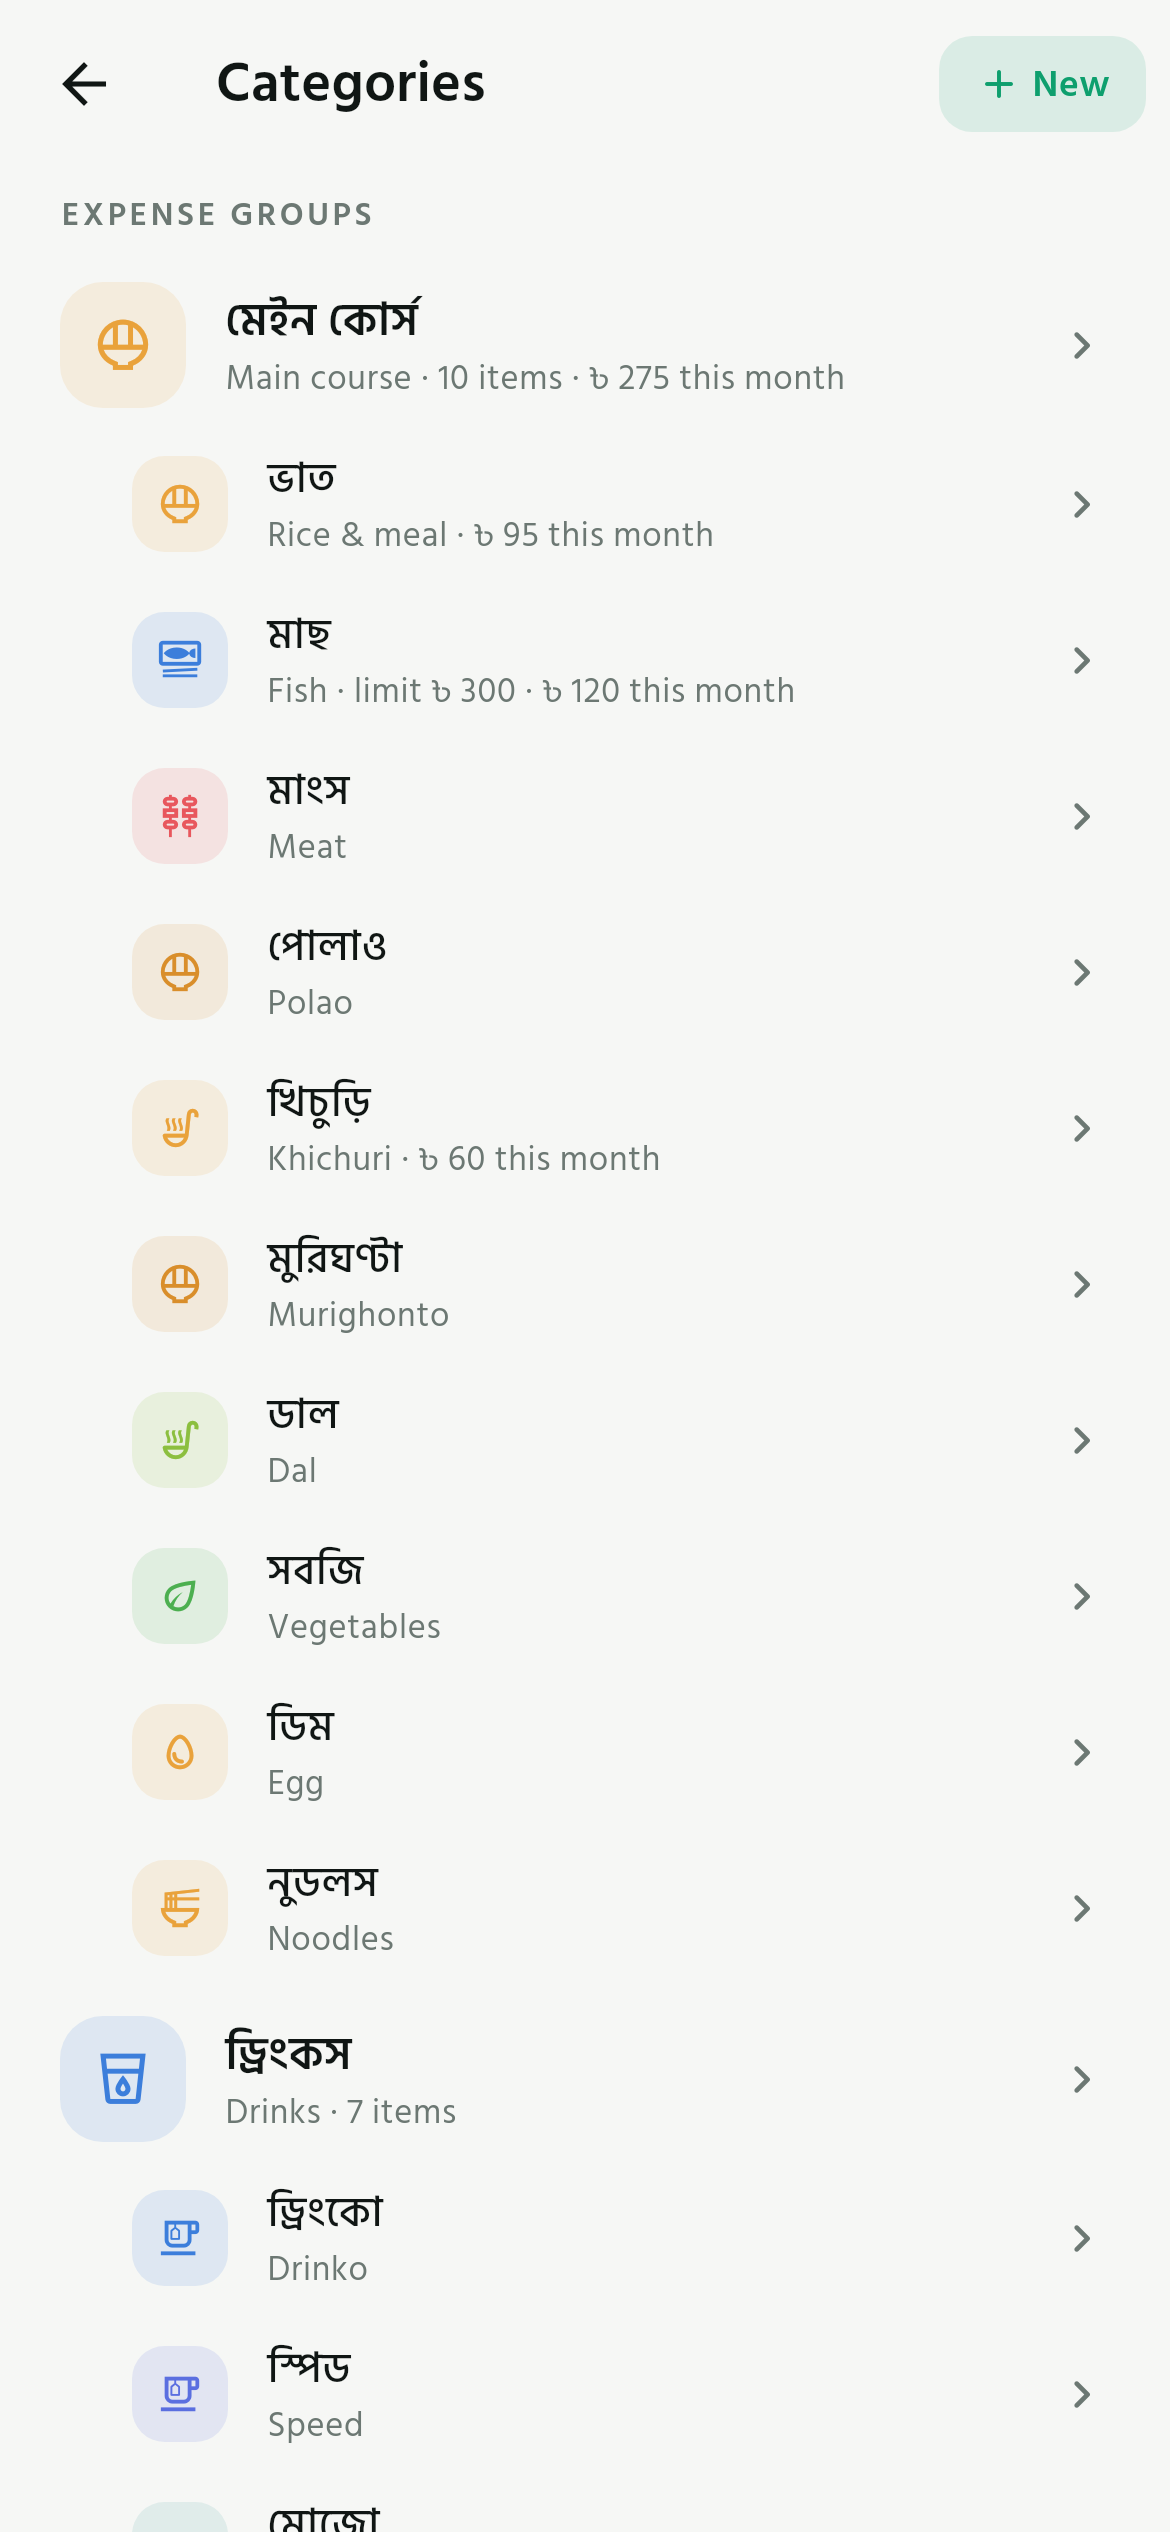
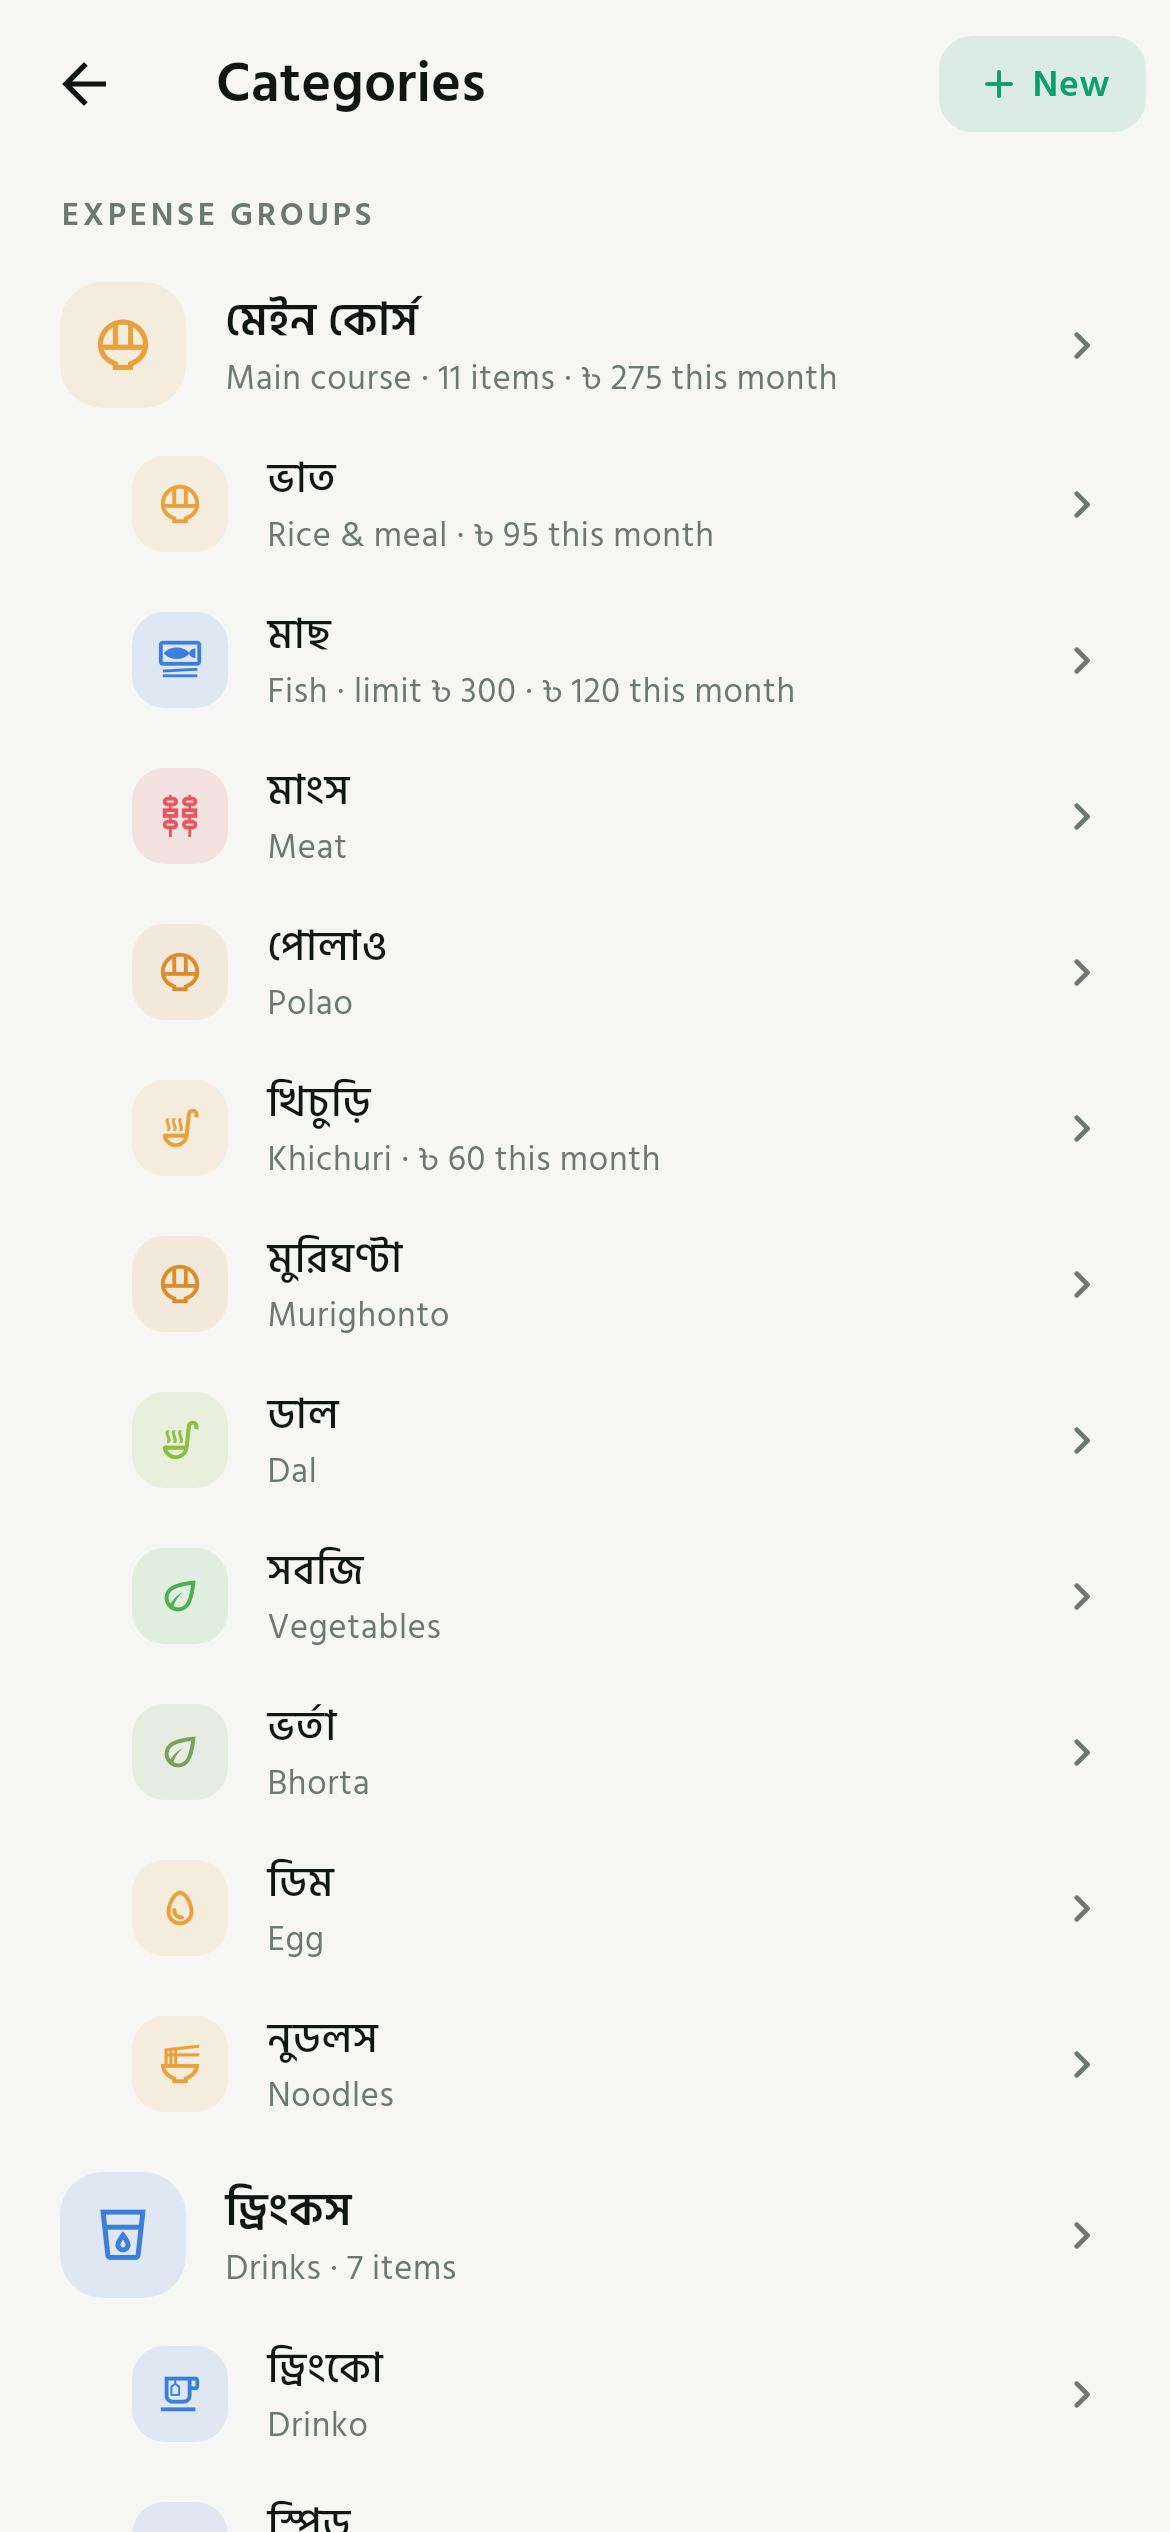
test/docs: the inheritance rule, the repair, and ভর্তা
- `food_logic_test.dart`: the six edible groups are flagged and the non-edible
  ones are not; a group still never accepts a meal; a category created under Main
  course is food and its money lands in today's dinner; one created under grooming
  stays non-food.
- `database_test.dart`: a v2 file upgraded all the way to v7 has `g_main` flagged
  and `g_hall` not.
- Screenshots re-rendered (the picker and the category list both changed shape),
  version 1.9.0, README updated with ভর্তা, the inheritance rule and schema v7.

diff --git a/test/food_logic_test.dart b/test/food_logic_test.dart
@@ -43,6 +43,8 @@ void main() {
         'g_drinks',
         'g_snacks',
         'g_sweets',
+        'g_fruits',
+        'g_eatout',
       ];
       for (final AppCategory item in kDefaultCategories) {
         if (!foodGroups.contains(item.parentId)) continue;
@@ -51,6 +53,32 @@ void main() {
           isTrue,
           reason: '${item.id} sits in a food group but is not flagged',
         );
+      }
+    });
+
+    test('the editable groups are themselves flagged as food', () {
+      // This is what a new item inherits, and the reason "চানাচুর" added under
+      // Snacks used to be born non-food: no meal chips, no meal total.
+      const List<String> foodGroups = <String>[
+        'g_main',
+        'g_drinks',
+        'g_snacks',
+        'g_sweets',
+        'g_fruits',
+        'g_eatout',
+      ];
+      for (final String id in foodGroups) {
+        final AppCategory group = kDefaultCategories.firstWhere(
+          (AppCategory category) => category.id == id,
+        );
+        expect(group.isFood, isTrue, reason: '$id is edible but not flagged');
+      }
+
+      for (final String id in <String>['g_grooming', 'g_study', 'g_hall']) {
+        final AppCategory group = kDefaultCategories.firstWhere(
+          (AppCategory category) => category.id == id,
+        );
+        expect(group.isFood, isFalse, reason: '$id must not be edible');
       }
     });
 
@@ -70,11 +98,17 @@ void main() {
       }
     });
 
-    test('eating out is food, groups never are', () {
+    test('eating out is food, and a group never takes a meal', () {
       expect(seeded('eatout').isFood, isTrue);
+      // Groups may be flagged as edible *branches* (see the inheritance test),
+      // but none of them can carry a meal tag: entries point at items.
       for (final AppCategory category in kDefaultCategories) {
         if (!category.isGroup) continue;
-        expect(category.isFood, isFalse, reason: '${category.id} is a group');
+        expect(
+          state.acceptsMeal(category.id),
+          isFalse,
+          reason: '${category.id} is a container',
+        );
       }
     });
 

diff --git a/test/database_test.dart b/test/database_test.dart
@@ -212,6 +212,19 @@ void main() {
     );
     expect(all.length, greaterThan(90), reason: 'new items were added');
 
+    // v6 → v7: the edible branches are flagged, so a new item added inside them
+    // inherits "food" instead of being born meal-less.
+    expect(
+      all.firstWhere((AppCategory c) => c.id == 'g_main').isFood,
+      isTrue,
+      reason: 'Main course is an edible branch',
+    );
+    expect(
+      all.firstWhere((AppCategory c) => c.id == 'g_hall').isFood,
+      isFalse,
+      reason: 'hall bills are not food',
+    );
+
     final TransactionEntry kept = (await TransactionRepository(
       database: upgraded,
     ).query(const TransactionQuery())).single;

diff --git a/lib/core/app_info.dart b/lib/core/app_info.dart
@@ -6,7 +6,7 @@ class AppInfo {
   static const String name = 'Taka';
   static const String nameBn = 'টাকা';
   static const String tagline = 'Amar taka gelota koi?';
-  static const String version = '1.8.0';
+  static const String version = '1.9.0';
 
   /// The person this was built for, and by.
   static const String author = 'Mazidul Islam Mahim';

diff --git a/README.md b/README.md
@@ -13,7 +13,7 @@ much of the month is left.
 ![Dart](https://img.shields.io/badge/Dart-3.13-0175C2?logo=dart&logoColor=white)
 ![Android](https://img.shields.io/badge/Android-API%2021%2B-3DDC84?logo=android&logoColor=white)
 ![Tests](https://img.shields.io/badge/tests-77%20passing-0E9F6E)
-[![Download APK](https://img.shields.io/badge/download-v1.8.0%20APK-0E9F6E?logo=android&logoColor=white)](https://github.com/mahimmazidul/taka/releases/latest)
+[![Download APK](https://img.shields.io/badge/download-v1.9.0%20APK-0E9F6E?logo=android&logoColor=white)](https://github.com/mahimmazidul/taka/releases/latest)
 [![Build & Release](https://github.com/mahimmazidul/taka/actions/workflows/release.yml/badge.svg)](https://github.com/mahimmazidul/taka/actions/workflows/release.yml)
 
 ---
@@ -97,11 +97,13 @@ change — or to remove.
 
 **Two levels of categories, seeded for hall life.** A group holds items, and an
 item is what you log. Everything is renameable, recolourable and re-iconable, and
-you can add your own groups or park a new item at the top level.
+you can add your own groups or park a new item at the top level. An item added
+inside a food group is food — it gets the breakfast/lunch/dinner chips and counts
+in today's meals; a group itself never takes a meal tag.
 
 | Group | Items |
 |---|---|
-| মেইন কোর্স · Main course | ভাত, মাছ, মাংস, পোলাও, খিচুড়ি, মুরিঘণ্টা, সবজি, ডাল, ডিম |
+| মেইন কোর্স · Main course | ভাত, মাছ, মাংস, পোলাও, খিচুড়ি, মুরিঘণ্টা, সবজি, ভর্তা, ডাল, ডিম |
 | ড্রিংকস · Drinks | ড্রিংকো, স্পিড, মোজো, কোক / পেপসি, জুস, পানি, কফি |
 | বাইরের খাবার · Dining out | বার্গার, পিজ্জা, ফ্রাই, শর্মা, ফ্রায়েড চিকেন, বিরিয়ানি, স্ট্রিট ফুড, সাধারণ |
 | নাস্তা · Snacks | পরোটা, সমুচা, সিঙ্গারা, টোস্ট, বিস্কুট, চিপস, চা |
@@ -299,7 +301,7 @@ state-management package, no chart package, no analytics.
 The app needs the network for exactly one thing — *Check for updates* — and never
 on its own. Nothing is uploaded, and every screen works with the radio off.
 
-### Data model (SQLite `taka.db`, schema v6)
+### Data model (SQLite `taka.db`, schema v7)
 
 ```sql
 categories(id, name, name_bn, icon, color, kind, budget_minor,
@@ -347,11 +349,11 @@ be unforgivable:
 
 `test/database_test.dart` builds a v2 database by hand, reopens it with the current
 code and asserts the old entry, its category and its budget all survived — now
-through four upgrades, v2 → v6.
+through five upgrades, v2 → v7.
 
 ### Tests
 
-104 tests, all offline (38 logic, insight and store rules, 25 database, 12 screen, 21 golden,
+105 tests, all offline (40 logic, insight and store rules, 25 database, 12 screen, 21 golden,
 plus the fast-food and carry-over rules):
 
 | File | Covers |
@@ -399,6 +401,12 @@ licence regardless of the code's.
 - Icons: Material Symbols via `flutter/material`.
 
 ## Changelog
+
+- **v1.9.0** — ভর্তা joins the main course, and items you add yourself finally
+  count as meals. A category created under Main course (or Snacks, Drinks, Sweets,
+  Fruit, Dining out) used to be stored as *not food*: no meal chips on the Add
+  screen and no line in today's meals. The edible groups are flagged now, new items
+  inherit it, and schema v7 repairs items already added by hand.
 
 - **v1.8.0** — the project gets a licence. PolyForm Noncommercial 1.0.0: free to
   use, read, change and share for anything noncommercial; commercial use or reuse
